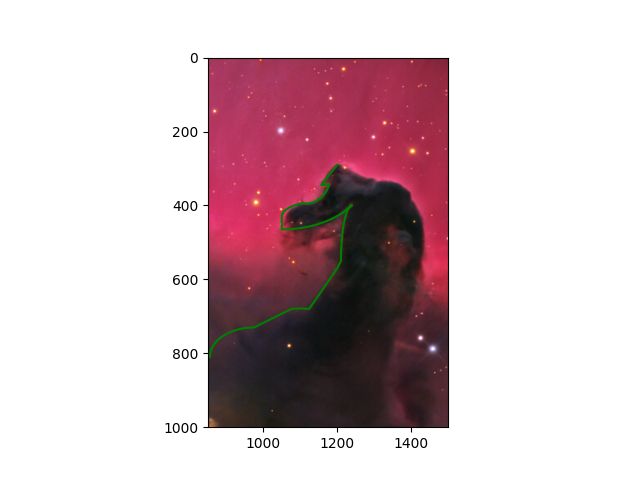
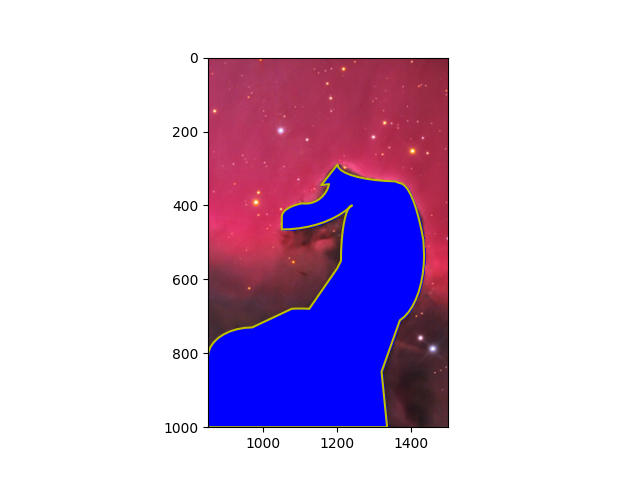
ddddddddddddddddddd3333333333333333333333

Changed region(s): [[0.3125, 0.3438, 0.6875, 0.9062]]

diff --git a/img_interpol.py b/img_interpol.py
@@ -1,6 +1,7 @@
 import matplotlib.pyplot as plt
 import numpy as np
 from scipy import interpolate
+import shapely.geometry as geom
 
 img = plt.imread('horsehead.jpg')
 
@@ -9,7 +10,7 @@ fig, ax = plt.subplots()
 ax.imshow(img)
 
 t1 = np.linspace(np.pi,3*np.pi/2, 10)
-x1 = 975 + 120 * np.cos(t1)
+x1 = 970 + 120 * np.cos(t1)
 y1 = 810 + 80 * np.sin(t1)
 
 t2 = np.linspace(np.pi, 2*np.pi, 10)
@@ -68,10 +69,69 @@ y9 = 290
 x = np.append(x, x9)
 y = np.append(y, y9)
 
+t10 = np.linspace(np.pi, np.pi/1.9, 10)
+x10 = 1371 + 170 * np.cos(t10)
+y10 = 290 + 45 * np.sin(t10)
+
+x = np.append(x, x10)
+y = np.append(y, y10)
+
+t11 = np.linspace(-np.pi/2, -0.8, 10)
+x11 = 1367 + 95 * np.cos(t11)
+y11 = 889 + 550 * np.sin(t11)
+
+x = np.append(x, x11)
+y = np.append(y, y11)
+
+t12 = np.linspace(0, np.pi/2.5, 10)
+x12 = 1340 + 95 * np.cos(t12)
+y12 = 535 + 185 * np.sin(t12)
+
+x = np.append(x, x12)
+y = np.append(y, y12)
+
+t13 = np.linspace(0, np.pi/2.5, 10)
+x13 = 1320 
+y13 = 850
+
+x = np.append(x, x13)
+y = np.append(y, y13)
+
+t14 = np.linspace(0, np.pi/2.5, 10)
+x14 = 1335 
+y14 = 1000
+
+x = np.append(x, x14)
+y = np.append(y, y14)
+
+t15 = np.linspace(0, np.pi/2.5, 10)
+x15 = 800 
+y15 = 1000
+
+x = np.append(x, x15)
+y = np.append(y, y15)
+
+
 spline_coords, figure_spline_part = interpolate.splprep([x, y], s=0)
 spline_curve = interpolate.splev(figure_spline_part, spline_coords)
 
-plt.plot(spline_curve[0], spline_curve[1], 'g')
+curve_coords = []
+for i in range(len(spline_curve[0])):
+    curve_coords.append([spline_curve[0][i], spline_curve[1][i]])
+    
+polygon = geom.Polygon(curve_coords)
+points_number_per_side = 500
+
+x_pictures_limits = [800, 1500]
+y_pictures_limits = [0, 1000]
+
+for x_point_coord in np.linspace(*x_pictures_limits, points_number_per_side):
+    for y_point_coord in np.linspace(*y_pictures_limits, points_number_per_side):
+        p = geom.Point(x_point_coord, y_point_coord)
+        if p.within(polygon):
+            plt.plot(x_point_coord, y_point_coord, 'bo', ms = 0.5)
+
+plt.plot(spline_curve[0], spline_curve[1], 'y')
 plt.ylim(1000, 0)
 plt.xlim(850, 1500)
 plt.savefig('hh_interpol.png')
